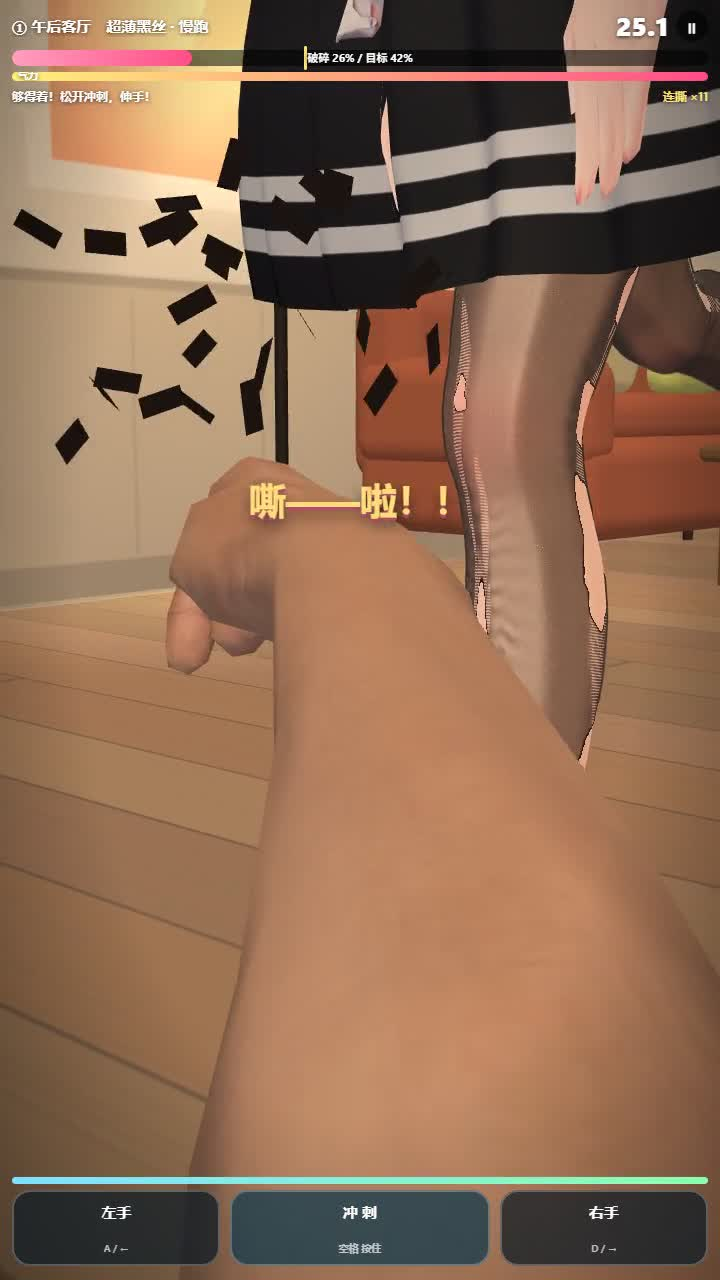
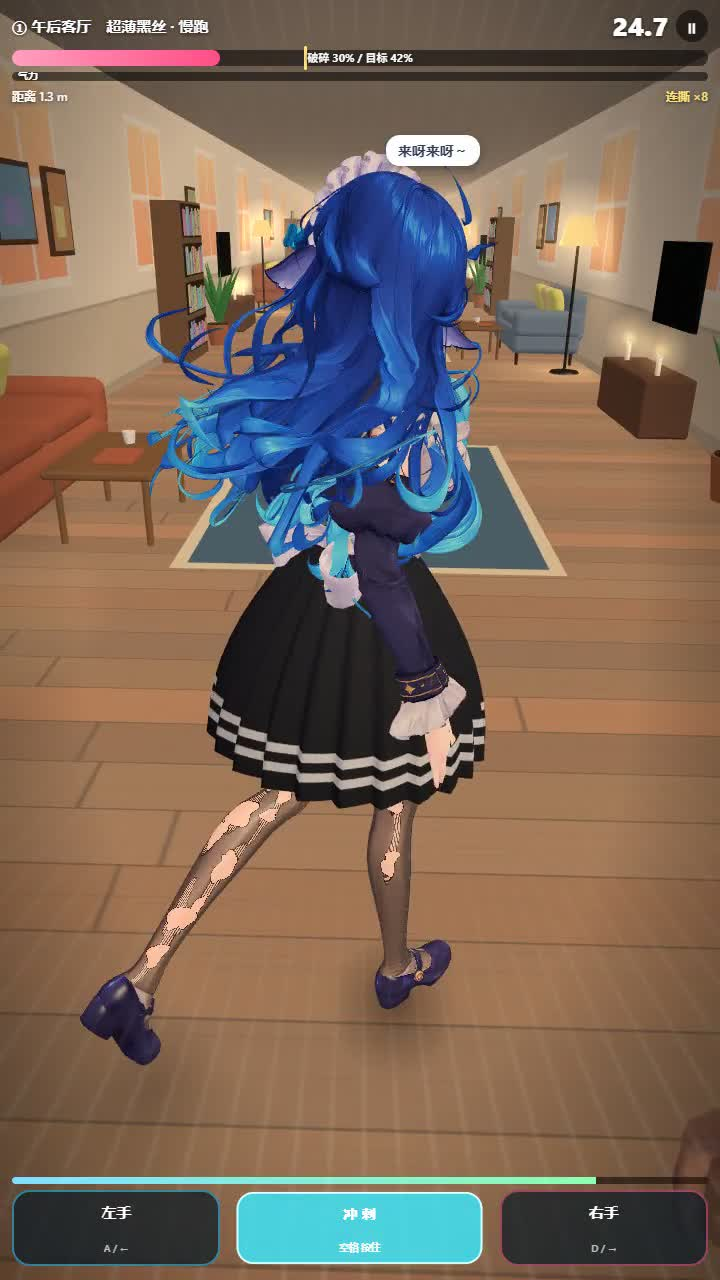
左右手时机标记、隐藏尾巴、拼力气握拳与抽丝、胜利翘腿坐姿
- 两条小腿上加左（青）/ 右（粉）标记与进度圆环，腿部光晕和底部按钮同色；
  按错手 / 按早了分别提示；近身时她的步子放慢；近身镜头后移避免后甩的小腿怼到镜头
- 鲸鱼尾巴和背后丝带全程隐藏
- 拼力气时她双手握拳；抽丝改成更明显的梯状横档；撕开时糙汉的手甩向右下不挡镜头
- 胜利 / 大成功后改为坐进蛋形单人椅翘二郎腿

diff --git a/web/src/main.js b/web/src/main.js
@@ -97,6 +97,18 @@ function updateShreds(dt) {
   shredMesh.instanceMatrix.needsUpdate = true;
 }
 
+// 蛋形单人椅（胜利时她坐进去翘二郎腿）
+const chair = new THREE.Group();
+{
+  const boucle = new THREE.MeshStandardMaterial({ color: 0xf2ece4, roughness: 1 });
+  const shell = new THREE.Mesh(new THREE.SphereGeometry(0.5, 32, 20, 0, Math.PI * 2, 0, Math.PI * 0.62), boucle);
+  shell.material.side = THREE.DoubleSide; shell.rotation.x = -Math.PI / 2 - 0.35; shell.scale.set(1, 1, 1.25); shell.position.set(0, 0.62, -0.08); chair.add(shell);
+  const seat = new THREE.Mesh(new THREE.CylinderGeometry(0.36, 0.34, 0.14, 28), boucle); seat.position.set(0, 0.4, 0.02); seat.scale.z = 1.1; chair.add(seat);
+  const stem = new THREE.Mesh(new THREE.CylinderGeometry(0.04, 0.05, 0.32, 12), new THREE.MeshStandardMaterial({ color: 0xc8c8cc, metalness: 0.8, roughness: 0.3 })); stem.position.y = 0.17; chair.add(stem);
+  const base = new THREE.Mesh(new THREE.CylinderGeometry(0.3, 0.32, 0.03, 28), stem.material); base.position.y = 0.015; chair.add(base);
+  chair.visible = false;
+}
+
 // ------------------------------------------------------------ 角色
 let vrm, girl, girlRoot, man, legs = [], skirt, legRefMesh, joints = [];
 const tailParts = []; // 尾巴和丝带垂在身后，近身视角会把腿全挡住，所以贴近时藏起来
@@ -145,6 +157,8 @@ async function load() {
   skirt = new Skirt(raw('hips'), wp('hips'));
   scene.add(skirt.mesh);
   girl = new Girl(vrm, girlRoot); girl.say = say;
+  legs[0].material.uniforms.uHotColor.value.set('#3fd0ff'); legs[1].material.uniforms.uHotColor.value.set('#ff5d8f');
+  scene.add(chair);
   vrm.scene.traverse((o) => { if (/whale_tail|ribbon_(left|right)_tail/i.test(o.name)) tailParts.push(o); });
   joints = [...(vrm.springBoneManager?.joints || [])].map((j) => ({ j, g: j.settings.gravityPower, d: j.settings.gravityDir.clone() }));
   girl.update(0);
@@ -197,7 +211,23 @@ function say(text) { $('bubble').textContent = text; ui.bubbleT = 0; }
 function pop(text) { $('pop').textContent = text; ui.popT = 0; }
 function big(title, sub = '', dur = 1.2) { const b = $('big'); b.firstElementChild.textContent = title; b.lastElementChild.textContent = sub; b.lastElementChild.style.display = sub ? '' : 'none'; ui.bigT = 0; ui.bigDur = dur; }
 function tip(text) { $('tip').textContent = text; ui.tipT = 0; }
+const marks = [$('mL'), $('mR')];
+function updateMarks() {
+  const show = game.state === 'play' && game.view > 0.4, w = view.clientWidth, h = view.clientHeight;
+  for (let i = 0; i < 2; i++) {
+    const el = marks[i], H = hands[i];
+    if (!show) { el.style.opacity = 0; continue; }
+    const k = girl.kick(i), win = game.lv.win, ready = k > win, fill = ready ? 1 : clamp((k - (win - 0.9)) / 0.9, 0, 1);
+    tmpV.copy(calf[i]); tmpV.y += 0.05; tmpV.project(camera);
+    el.style.left = (tmpV.x * 0.5 + 0.5) * w + 'px'; el.style.top = (-tmpV.y * 0.5 + 0.5) * h + 'px';
+    el.style.opacity = (H.state === 'idle' ? 0.5 + 0.5 * fill : 0.25) * smooth((game.view - 0.4) / 0.3);
+    el.style.transform = `scale(${ready ? 1.25 : 0.8 + 0.2 * fill})`;
+    el.classList.toggle('ready', ready); el.lastElementChild.textContent = ready ? (i ? '右!' : '左!') : (i ? '右' : '左');
+    el.querySelector('.arc').style.strokeDashoffset = 119.4 * (1 - fill);
+  }
+}
 function updateUI(dt) {
+  updateMarks();
   ui.popT += dt; ui.bubbleT += dt; ui.bigT += dt; ui.tipT += dt; ui.flash = Math.max(0, ui.flash - dt * 5);
   const p = $('pop'), a = ui.popT / 0.7;
   p.style.opacity = a < 1 ? Math.min(1, a * 5) * (1 - smooth((a - 0.6) / 0.4)) : 0;
@@ -230,7 +260,7 @@ function pressHand(h) {
     if (spot && legs[h].grab(spot.i, spot.j)) { H.state = 'grab'; H.t = 0; H.tension = 0; sfx.tone(300 + h * 60, 0.05, 'triangle', 0.08); return; }
   }
   H.state = 'miss'; H.t = 0; H.from.copy(calf[h]); game.combo = 0; sfx.tone(180, 0.08, 'sine', 0.07);
-  if (near) { girl.react('miss'); pop('抓空！'); } else tip(game.gap > GRAB_RANGE ? '太远了，先按住冲刺追上去' : '松开冲刺再伸手');
+  if (near) { girl.react('miss'); const other = girl.kick(1 - h) > lv.win - 0.12; pop(other ? `错手！这是${h ? '左' : '右'}腿` : '早了！等腿亮起来'); } else tip(game.gap > GRAB_RANGE ? '太远了，先按住冲刺追上去' : '松开冲刺再伸手');
 }
 function doTear(h) {
   const H = hands[h], leg = legs[h], g = leg.grabbed;
@@ -270,7 +300,8 @@ function updateHands(dt, time) {
       R.pinch = L.pinch = 0.12; R.snap = L.snap = 5;
     } else { // 撕完了：手收回来
       for (const H of hands) { const sg = H.i ? 1 : -1; H.pos.copy(camera.position).addScaledVector(right, sg * 0.24).addScaledVector(fwd, 0.3); H.pos.y -= 0.42 - 0.02 * Math.sin(time * 2 + H.i); H.pinch = 0.6; H.snap = 6; }
-      if (game.state === 'duel' && d.phase === 'rip') { R.pos.copy(d.from).addScaledVector(fwd, -0.28 * smooth(d.t / 0.5)).addScaledVector(up, 0.08); R.pinch = 1; R.snap = 20; }
+      // 撕开时右手往右下方甩开，不挡镜头
+      if (game.state === 'duel' && d.phase === 'rip') { { const k = smooth(d.t / 0.5); R.pos.copy(d.from).addScaledVector(fwd, -0.08 * k).addScaledVector(right, 0.22 * k).addScaledVector(up, -0.16 * k); } R.pinch = 1; R.snap = 20; }
     }
     man.update(dt, camera, hands[0], hands[1], time);
     return;
@@ -327,7 +358,7 @@ function gameplayCam(outPos, outLook, time) {
   const noise = Math.sin(time * 7.3) * 0.5 + Math.sin(time * 12.7 + 1) * 0.3 + Math.sin(time * 19.1 + 2) * 0.2;
   outPos.set(gx * lerp(0.5, 0.85, m) + step * (0.022 + 0.014 * s) * sh + noise * 0.006 * sh,
     lerp(1.5, 0.82, m) + 0.05 * s + Math.abs(Math.cos(game.pPhase)) * amp * 2 * sh,
-    game.gap - 0.3 * m);
+    game.gap + 0.08 * m); // 贴近时别再往前凑：后甩的小腿会直接怼到镜头上
   outLook.set(gx * 0.9 + noise * 0.012 * sh, lerp(0.9, 0.42, m) + Math.sin(game.pPhase * 2 + 0.6) * 0.012 * sh, -0.05);
   return { fov: 66 + 9 * s - 3 * m, roll: (step * (0.012 + 0.014 * s) + noise * 0.005) * sh };
 }
@@ -347,10 +378,10 @@ function updateCamera(dt, time) {
     if (d.phase === 'in') { _ip.set(gx + 0.3, 1.05, 1.9); _il.set(gx, 0.9, 0.05); fov = 60; rate = 5; }                // 先给个全身：她回身站定
     else if (d.phase === 'tug') { _ip.set(gx + lerp(0.32, 0.72, T) + br * 0.01, lerp(0.98, 0.56, T), lerp(1.08, 0.74, T)); _il.set(gx + 0.05, lerp(0.84, 0.41, T), lerp(0.1, 0.24, T)); fov = lerp(74, 46, T); } // 越绷越绕到侧面贴近，看得清布面被拉起的轮廓
     else if (d.phase === 'rip') { _ip.set(gx + 0.62, 0.52, 0.86); _il.set(gx + 0.13, 0.4, 0.26); fov = 44; rate = 10; }
-    else if (d.phase === 'sit') { _ip.set(gx + 0.32, 1.2, 1.75); _il.set(gx, 0.42, 0); fov = 54; rate = 4; }
+    else if (d.phase === 'sit') { _ip.set(gx + 0.45, 1.05, 1.85); _il.set(gx, 0.62, 0); fov = 56; rate = 4; }
     else { _ip.copy(_gp); _il.copy(_gl); rate = 5; }
     pos = _ip; look = _il; roll = br * 0.006;
-  } else if (game.state === 'win') { _ip.set(gx + 0.32 + br * 0.01, 1.2, 1.75); _il.set(gx, 0.42, 0); pos = _ip; look = _il; fov = 54; roll = br * 0.004; rate = 4; }
+  } else if (game.state === 'win') { _ip.set(gx + 0.45 + br * 0.01, 1.05, 1.85); _il.set(gx, 0.62, 0); pos = _ip; look = _il; fov = 54; roll = br * 0.004; rate = 4; }
   else if (game.state === 'lose') { // 趴在地上，视线从她的鞋尖慢慢抬到脸上
     const a = smooth((game.resT - 0.5) / 1.6);
     _ip.set(0.1, lerp(0.9, 0.25, smooth(game.resT / 0.5)) + br * 0.006, 1.16); _il.set(0.02, lerp(0.0, 0.64, a), 0.05);
@@ -423,7 +454,7 @@ const game = {
     for (const id of ['pad', 'stam']) $(id).classList.add('hidden');
     girl.setRunning(false);
     if (won) { // 认输：一屁股坐地上，气鼓鼓
-      sfx.win(); big('撕完收工！', '', 1.3); girl.c.duel.t = 0; girl.c.sit.t = 1; girl.faceT.angry = 0.7; girl.faceT.happy = 0; girl.faceT.surprised = 0; say('不玩了！赔我十双！');
+      sfx.win(); big('撕完收工！', '', 1.3); girl.c.duel.t = 0; girl.c.sit.t = 1; girl.faceT.angry = 0.7; girl.faceT.happy = 0; girl.faceT.surprised = 0; say('哼，不跟你玩了！');
     } else { // 你力竭趴下，她侧过身叉着腰，低头斜你一眼
       sfx.lose(); girl.c.yaw.t = 0.75; girl.c.scorn.t = 1; girl.c.headYaw.t = -0.55; girl.faceT.angry = 0.35; girl.faceT.happy = 0; girl.lids = 0.5;
       girl.later(1.3, () => say('就这？'));
@@ -450,7 +481,7 @@ const game = {
       girl.c.tug.t = (0.5 - d.T) * 2;
       const g = leg.grabbed, c3 = g.c * 3, n0 = leg.n0, dist = 0.025 + clamp(d.T, 0, 1.05) * 0.15;
       leg.drag(tmpV.set(g.origin.x + n0[c3] * dist, g.origin.y + n0[c3 + 1] * dist + dist * 0.15, g.origin.z + n0[c3 + 2] * dist));
-      d.ladder -= rdt; if (d.T > 0.55 && d.ladder <= 0) { leg.ladderAt(g.ci + Math.round((Math.random() - 0.5) * 16), g.cj + Math.round((Math.random() - 0.5) * 30), 0.03 + 0.06 * d.T); d.ladder = 0.32; sfx.tone(900 + Math.random() * 500, 0.03, 'square', 0.03); }
+      d.ladder -= rdt; if (d.T > 0.45 && d.ladder <= 0) { leg.ladderAt(g.ci + Math.round((Math.random() - 0.5) * 22), g.cj + Math.round((Math.random() - 0.5) * 40), 0.04 + 0.08 * d.T); d.ladder = 0.18; sfx.tone(900 + Math.random() * 500, 0.03, 'square', 0.03); }
       const losing = d.T > 0.68; girl.faceT.surprised = losing ? 0.7 : 0; girl.faceT.angry = losing ? 0.1 : 0.5; // 快输了就慌，占上风就得意
       if (d.T >= 1) { // 撕开了：沿小腿一路崩开
         leg.restToWorld(g.c, g.target, d.from);
@@ -522,7 +553,8 @@ const game = {
     this.pPhase += dt * Math.PI * lerp(2.7, 3.6, this.sprintK) * (this.state === 'intro' ? run : 1);
     this.dist += dt * lv.speed * run * (1 + 0.25 * this.sprintK);
     for (let h = 0; h < 2; h++) { const u = legs[h].material.uniforms.uHot, on = near && hands[h].state === 'idle' && girl.kick(h) > lv.win; u.value += ((on ? 1 : 0) - u.value) * (1 - Math.exp(-dt * 18)); }
-    const hideTail = this.view > 0.3 && this.state === 'play'; for (const o of tailParts) o.visible = !hideTail;
+    for (const o of tailParts) o.visible = false;
+    girl.pace = 1 - 0.32 * this.view; // 贴近以后她的步子放慢一点，左右腿看得清
     this.hud();
   },
 };
@@ -582,6 +614,7 @@ function frame(rawDt, draw = true) {
     updateHands(dt, time);
     for (const leg of legs) leg.update(dt);
     world.update(game.dist);
+    const sk = clamp(girl.c.sit.x, 0, 1); chair.visible = sk > 0.02; chair.scale.setScalar(0.6 + 0.4 * sk); chair.position.set(girlRoot.position.x, 0, -0.12);
     updateShreds(dt); updateUI(rawDt);
   }
   shared.uKeyDir.value.copy(keyDirW).transformDirection(camera.matrixWorldInverse);

diff --git a/web/src/girl.js b/web/src/girl.js
@@ -43,7 +43,9 @@ export class Girl {
     this.style = { ...STYLES.jog }; this.styleT = STYLES.jog;
     this.phase = 0; this.t = 0; this.timers = []; this.nextLook = 3; this.blinkT = 2; this.blink = 0;
     this.face = { happy: 0.4, surprised: 0, angry: 0, sad: 0 }; this.faceT = { happy: 0.4, surprised: 0, angry: 0, sad: 0 }; this.lids = 0;
-    this.say = null; this.running = false;
+    this.say = null; this.running = false; this.pace = 1;
+    this.fingers = { left: [], right: [] };
+    for (const side of ['left', 'right']) for (const f of ['Index', 'Middle', 'Ring', 'Little']) for (const seg of ['Proximal', 'Intermediate', 'Distal']) { const n = H.getNormalizedBoneNode(side + f + seg); if (n) this.fingers[side].push(n); }
   }
   later(sec, fn) { this.timers.push({ at: this.t + sec, fn }); }
   setStyle(name) { this.styleT = STYLES[name] || STYLES.jog; }
@@ -71,7 +73,7 @@ export class Girl {
     for (const k in s) s[k] += (this.styleT[k] - s[k]) * (1 - Math.exp(-dt * 3));
     for (const k in c) c[k].step(dt);
     const run = Math.max(0, Math.min(1, c.run.x));
-    this.phase = (this.phase + dt * Math.PI * s.cadence * run) % (Math.PI * 2);
+    this.phase = (this.phase + dt * Math.PI * s.cadence * run * this.pace) % (Math.PI * 2);
     if (this.running && t > this.nextLook) { this.react('taunt'); this.nextLook = t + (2.5 + Math.random() * 3) / Math.max(0.1, s.look * 4); }
     c.x.t = this.running ? Math.sin(t * 1.15) * s.zig + Math.sin(t * 0.53 + 1) * s.zig * 0.4 : 0;
 
@@ -92,20 +94,23 @@ export class Girl {
       b.leftUpperLeg.rotation.x += (-0.62 + 0.1 * tg) * du; b.leftLowerLeg.rotation.x += 0.12 * du; b.leftFoot.rotation.x += 0.35 * du;
       b.rightUpperLeg.rotation.x += (0.3 - 0.1 * tg) * du; b.rightLowerLeg.rotation.x += 0.45 * du; b.rightFoot.rotation.x += -0.3 * du;
     }
-    if (sit > 0.001) { // 认输：鸭子坐，小腿折在身体两侧
-      for (const [pre, sg] of [['left', -1], ['right', 1]]) { b[pre + 'UpperLeg'].rotation.set(-1.42 * sit, 0, sg * 0.2 * sit); b[pre + 'LowerLeg'].rotation.set(2.45 * sit, 0, 0); b[pre + 'Foot'].rotation.set(0.7 * sit, 0, 0); }
+    if (sit > 0.001) { // 坐进椅子里翘二郎腿：左腿垂下着地，右腿搭在左膝上，脚尖绷直
+      const k = Math.min(1, sit), swing = Math.sin(t * 2.1) * 0.05 * k; // 翘着的那只脚闲闲地晃
+      b.leftUpperLeg.rotation.set(-1.45 * k, 0.05 * k, -0.06 * k); b.leftLowerLeg.rotation.set(1.3 * k, 0, 0); b.leftFoot.rotation.set(0.2 * k, 0, 0);
+      b.rightUpperLeg.rotation.set(-1.72 * k, -0.18 * k, 0.36 * k); b.rightLowerLeg.rotation.set((0.95 + swing) * k, 0, 0); b.rightFoot.rotation.set(0.55 * k, 0, 0);
     }
     if (sc > 0.001) { b.leftUpperLeg.rotation.x += -0.22 * sc; b.leftFoot.rotation.x += 0.2 * sc; b.rightUpperLeg.rotation.z += 0.06 * sc; }
     // --- 躯干：每步落地时下沉，蹦跳跑时腾空更高
     const bounce = Math.abs(Math.sin(ph)) * s.bounce * (1 + s.skip * 0.8 * (0.5 + 0.5 * Math.sin(ph * 0.5 + 1))) * run;
     b.hips.position.set(this.hipsRest.x + sway * 0.012 * idle, this.hipsRest.y - 0.03 * run + bounce + Math.max(0, c.hop.x) * 0.08 - Math.abs(c.stumble.x) * 0.02, this.hipsRest.z);
     b.hips.rotation.set(s.lean * run + c.stumble.x * 0.12, 0.14 * sw * run + sway * 0.05 * idle, 0.05 * Math.cos(ph) * run + sway * 0.025 * idle);
-    b.hips.position.y -= 0.07 * du + 0.8 * sit; b.hips.position.z += (-0.1 - 0.07 * tg) * du - 0.12 * sit;
-    b.hips.rotation.x += (0.16 - 0.16 * tg) * du + 0.1 * sit - 0.04 * sc; b.hips.rotation.z += 0.06 * sc;
-    b.spine.rotation.set(s.lean * 0.5 * run + 0.14 * du + 0.12 * sit, -0.2 * sw * run, -0.04 * Math.cos(ph) * run - sway * 0.03 * idle);
+    const sk = Math.min(1, sit);
+    b.hips.position.y -= 0.07 * du + 0.5 * sk; b.hips.position.z += (-0.1 - 0.07 * tg) * du - 0.06 * sk;
+    b.hips.rotation.x += (0.16 - 0.16 * tg) * du - 0.12 * sk - 0.04 * sc; b.hips.rotation.y += -0.18 * sk; b.hips.rotation.z += 0.06 * sc;
+    b.spine.rotation.set(s.lean * 0.5 * run + 0.14 * du + 0.06 * sk, -0.2 * sw * run, -0.04 * Math.cos(ph) * run - sway * 0.03 * idle);
     b.chest.rotation.set(0, -0.1 * sw * run, 0);
     b.neck.rotation.set(-s.lean * 0.6 * run, c.headYaw.x * 0.45, c.headTilt.x * 0.4);
-    b.head.rotation.set(-s.lean * 0.5 * run + 0.06 * idle - 0.3 * du - 0.25 * sit + 0.42 * sc, c.headYaw.x * 0.55 + sway * 0.04 * idle, c.headTilt.x * 0.6 + sway * 0.05 * idle);
+    b.head.rotation.set(-s.lean * 0.5 * run + 0.06 * idle - 0.3 * du - 0.05 * sk + 0.42 * sc, c.headYaw.x * 0.55 + 0.25 * sk + sway * 0.04 * idle, c.headTilt.x * 0.6 + sway * 0.05 * idle);
     // --- 手臂：与同侧腿反向摆臂；受惊时举起；入场时右手挥手
     const up = Math.max(0, Math.min(1.2, c.armsUp.x)), wave = Math.max(0, c.wave.x), sa = s.arm * run;
     b.leftUpperArm.rotation.set(0.1 + 0.85 * sw * sa + up * 0.4, up * 0.3, -1.12 + up * 0.3);
@@ -113,8 +118,9 @@ export class Girl {
     b.leftLowerArm.rotation.set(0, -0.3 - 1.15 * sa - up * 1.2, 0);
     b.rightLowerArm.rotation.set(0, 0.3 + 1.15 * sa + up * 1.2 + wave * (0.9 + 0.5 * Math.sin(t * 11)), 0);
     b.leftHand.rotation.set(0, 0, -0.2); b.rightHand.rotation.set(0, 0, 0.2);
-    if (sit > 0.001) { // 坐地上，两手撑在身前
-      b.leftUpperArm.rotation.x += -0.35 * sit; b.rightUpperArm.rotation.x += -0.35 * sit; b.leftUpperArm.rotation.z += 0.2 * sit; b.rightUpperArm.rotation.z += -0.2 * sit;
+    if (sk > 0.001) { // 左手搭在扶手上，右手搭在翘起的膝盖上
+      b.leftUpperArm.rotation.set(-0.15 * sk, 0.1 * sk, -1.12 + 0.22 * sk); b.leftLowerArm.rotation.set(0, -0.3 - 0.9 * sk, 0);
+      b.rightUpperArm.rotation.set(-0.55 * sk, -0.25 * sk, 1.12 - 0.12 * sk); b.rightLowerArm.rotation.set(0, 0.3 + 0.7 * sk, 0); b.rightHand.rotation.set(0.3 * sk, 0, 0.2);
     }
 
 
@@ -133,6 +139,8 @@ export class Girl {
         hand.rotation.set(0.5 * ww, 0, sgn * -0.2);
       }
     }
+    const grip = du > 0.25 ? Math.min(1, (du - 0.25) / 0.55) : 0;
+    for (const [side, sg] of [['left', -1], ['right', 1]]) this.fingers[side].forEach((f, i) => { f.rotation.set(0, 0, sg * grip * (i % 3 === 0 ? 1.0 : 1.3)); });
     const em = this.vrm.expressionManager;
     if (em) {
       this.blinkT -= dt; if (this.blinkT < 0) { this.blink = 1; this.blinkT = 1.8 + Math.random() * 3; }

diff --git a/web/index.html b/web/index.html
@@ -54,7 +54,16 @@
   #stam.low i { background: #ff7a6b; }
   .btn { flex: 1; height: 72px; border: 2px solid #ffffff40; border-radius: 18px; background: #0c1a24b8; color: #fff; font: 800 15px/1.2 "Segoe UI", "Microsoft YaHei", sans-serif; display: grid; place-items: center; touch-action: none; }
   .btn small { display: block; font-weight: 600; font-size: 10px; opacity: .7; }
-  .btn.hot { border-color: #ff6f9f; background: #ff4d86c0; box-shadow: 0 0 18px #ff4d86; }
+  #bL { border-color: #3fd0ff88; } #bR { border-color: #ff5d8f88; }
+  #bL.hot { border-color: #8fe6ff; background: #1fb4ecd0; box-shadow: 0 0 22px #3fd0ff; }
+  #bR.hot { border-color: #ffa0bf; background: #ff4d86d0; box-shadow: 0 0 22px #ff5d8f; }
+  .mark { position: absolute; width: 66px; height: 66px; margin: -33px 0 0 -33px; pointer-events: none; opacity: 0; display: grid; place-items: center; }
+  .mark svg { position: absolute; inset: 0; transform: rotate(-90deg); }
+  .mark circle { fill: #0008; stroke: #ffffff30; stroke-width: 4; }
+  .mark circle.arc { fill: none; stroke-width: 5; stroke-linecap: round; stroke-dasharray: 119.4; stroke-dashoffset: 119.4; }
+  #mL circle.arc { stroke: #3fd0ff; } #mR circle.arc { stroke: #ff5d8f; }
+  .mark b { position: relative; font: 900 24px/1 "Segoe UI", "Microsoft YaHei", sans-serif; text-shadow: 0 2px 4px #000c; }
+  #mL.ready circle:first-child { fill: #1fb4ecd8; } #mR.ready circle:first-child { fill: #ff4d86d8; }
   .btn.down { transform: scale(.95); filter: brightness(1.4); }
   #bSprint { flex: 1.25; background: #123a4cc0; }
   #bSprint.down { background: #2aa7d8d0; border-color: #9fe6ff; }
@@ -86,6 +95,8 @@
   <div id="bubble"></div><div id="pop"></div>
   <div id="big"><b></b><span></span></div>
   <div id="tip"></div>
+  <div class="mark" id="mL"><svg viewBox="0 0 44 44"><circle cx="22" cy="22" r="19"/><circle class="arc" cx="22" cy="22" r="19"/></svg><b>左</b></div>
+  <div class="mark" id="mR"><svg viewBox="0 0 44 44"><circle cx="22" cy="22" r="19"/><circle class="arc" cx="22" cy="22" r="19"/></svg><b>右</b></div>
   <div id="tug" class="hidden"><div class="who"><span>她</span><span>你</span></div><div class="bar"><i></i></div><div class="lab">狂点屏幕！别停！</div></div>
   <div id="stam" class="hidden"><i></i></div>
   <div id="pad" class="hidden">

diff --git a/web/src/shaders.js b/web/src/shaders.js
@@ -113,6 +113,7 @@ uniform sampler2D uMask;       // R = 破损, G = 抽丝, B = 松弛褶皱
 uniform vec2 uGrid;            // (NU, NV)
 uniform vec2 uMetric;          // 近似的 (周长, 长度)，单位米
 uniform float uKneeV, uHot;
+uniform vec3 uHotColor;
 uniform float uWeave, uPearl, uPearlScale, uPearlDensity, uPearlRand, uWrinkle, uEdgeNoise, uTime, uNet;
 ${COMMON_FS}
 void main(){
@@ -157,8 +158,10 @@ void main(){
   float densMul = (1.0 - 0.3 * knee) * (1.0 + edge * 2.6) * (1.0 + slack * 0.22 * wr);
   densMul *= 1.0 + 0.16 * uWeave * weave * wfade + (n1 - 0.5) * 0.12;
   float L = smoothstep(0.08, 0.6, m.g + (n2 - 0.5) * 0.25 * step(0.02, m.g));
-  float rung = smoothstep(0.3, 0.7, sin(met.y * 6.2832 / 0.0017 + 2.5 * n1) * 0.5 + 0.5);
-  densMul *= mix(1.0, mix(0.16, 0.85, rung), L * (1.0 - edge));
+  float rung = smoothstep(0.55, 0.8, sin(met.y * 6.2832 / 0.0022 + 2.0 * n1) * 0.5 + 0.5);
+  float runEdge = smoothstep(0.15, 0.4, m.g) * (1.0 - smoothstep(0.45, 0.75, m.g)); // 脱线两侧被挤在一起的纱线
+  densMul *= mix(1.0, mix(0.08, 1.6, rung), L * (1.0 - edge));
+  densMul *= 1.0 + runEdge * 1.4;
 
   if (uNet > 0.5) { // 渔网：45° 菱形网格，线上很密、网眼里几乎全透
     vec2 nq = vec2(met.x + met.y, met.x - met.y) / (0.4 / 36.0);
@@ -182,7 +185,7 @@ void main(){
 
   // 这条腿现在够得着：边缘泛一圈暖光
   float hot = uHot * pow(1.0 - clamp(abs(dot(N, V)), 0.0, 1.0), 2.0);
-  col += vec3(1.0, 0.45, 0.6) * hot * 0.9;
+  col += uHotColor * hot * 0.7;
   gl_FragColor = vec4(col, min(1.0, fab.a + hot * 0.25));
   #include <colorspace_fragment>
 }
@@ -197,6 +200,7 @@ export function makeStockingMaterial(shared, maskTex, fit, kneeV) {
       uMetric: { value: new THREE.Vector2(0.4, fit.yTop - fit.yBot) },
       uKneeV: { value: kneeV },
       uHot: { value: 0 },
+      uHotColor: { value: new THREE.Color(1.0, 0.45, 0.6) },
     },
     defines: { HAS_STRETCH: 1 },
     vertexShader: SKIN_VS,

diff --git a/web/README.md b/web/README.md
@@ -22,7 +22,7 @@ npm run dev
 | 暂停 / 选关 | Esc | 右上角 ⏸ |
 
 - **冲刺**：耗体力，快速拉近距离；镜头升高、视野变广，能看到肥鱼全身。体力见底要缓一下。
-- **近身**：松开冲刺且距离够近时，镜头压低贴到腿边。她左右腿交替后甩，哪条腿甩到身后（按钮和腿边缘会亮），就按哪只手拽住；**按住**直到撕开，提前松手会弹回去。
+- **近身**：松开冲刺且距离够近时，镜头压低贴到腿边，她的步子会放慢。两条小腿上各有一个标记（左腿青色、右腿粉色），圆环越满表示越接近时机；变成实心「左！/ 右！」、腿边缘同色发光、底部同色按钮亮起时，就按对应的手拽住；**按住**直到撕开，提前松手会弹回去。按错手会提示「错手」，按早了会提示「早了」。
 - 时机不对会抓空并断连击；左右手交替撕破有「左右开弓」加成，洞更大、拽得更快。
 - 近身后她会慢慢甩开你，出了范围就得再冲刺。
 - 破碎比例按**身后能看到的那半圈丝袜**上破洞 + 抽丝的面积算，「大成功」每次额外 +14%。
@@ -39,7 +39,7 @@ npm run dev
 
 ### 胜负演出
 
-- **过关**：她坐在地上耍赖「不玩了！赔我十双！」。
+- **过关**：她坐进一把蛋形单人椅里翘起二郎腿，气鼓鼓地说「哼，不跟你玩了！」。大成功撕开后也会坐一下再起身接着跑。
 - **超时**：你力竭趴在地上，第一人称抬头，一只手还朝她的鞋尖够着，她侧身低头、半眯着眼斜你一眼：「就这？」
 
 ## 关卡
@@ -88,9 +88,10 @@ npm run dev
 - 撕裂是「拽满触发 + 程序化生长」，下手点由程序在背面挑破损最少的位置，不需要瞄准。
 - 肥鱼原地跑，靠地板、墙面和家具滚动表现前进；脚没有做贴地 IK。
 - 家具是圆角体和基础几何体拼的，带灯晕和光斑，但不是美术建模的资产。
-- 拼力气时她的双手用 IK 伸到左大腿的袜口位置，手指没有做抓握姿势。
+- 拼力气时她的双手用 IK 伸到左大腿的袜口位置并握拳，但拳头落点在裙摆附近，并没有精确贴住袜口。
+- 胜利时的椅子是凭空缩放出现的。
 - 糙汉的身体整体放在镜头后方并限制了探身幅度，正常视角下只看得到手臂。
-- 近身视角会把尾巴和背后的丝带藏起来（否则会挡住整条腿）。
+- 鲸鱼尾巴和背后垂下的丝带全程隐藏，只留短裙和丝袜。
 - 录像是无头浏览器软件渲染逐帧截的，没有声音。
 
 ## 模型与许可
